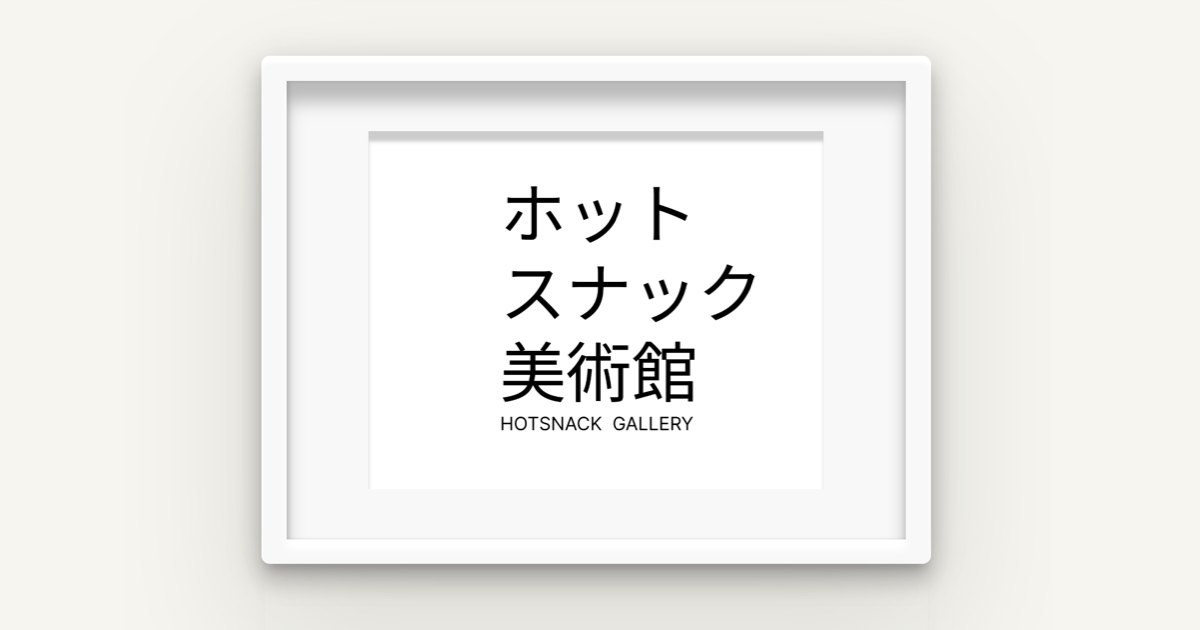
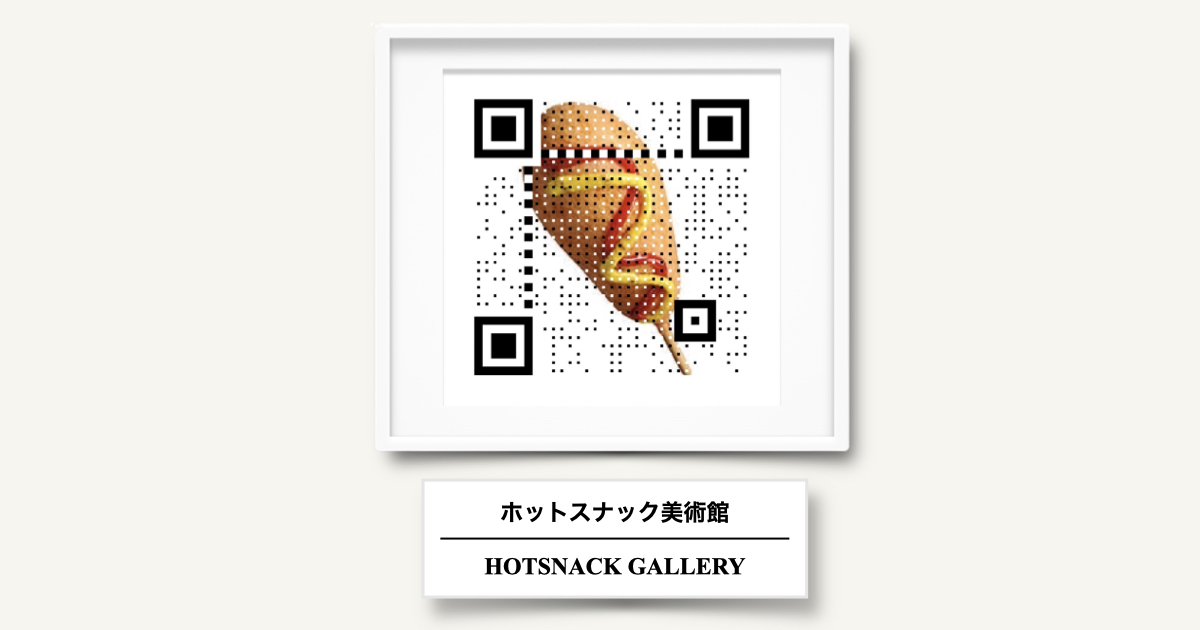
fix:ogpの再設定

Changed region(s): [[0.185, 0.0603, 0.8017, 0.9952]]

diff --git a/app/javascript/pages/Top.vue b/app/javascript/pages/Top.vue
@@ -86,7 +86,7 @@
                 </v-btn>
             </v-card-title>
             <v-card color="transparent" outlined>
-                <v-col class="s-font" align="left">コンビニでホットスナックを選んでいる時に、、、</v-col>
+                <v-col class="s-font pt-0" align="left">コンビニでホットスナックを選んでいる時に、、、</v-col>
                 <v-col class="p-font" align="center">
                     店員の視線が気になる人。
                     <br />

diff --git a/app/models/area.rb b/app/models/area.rb
@@ -3,17 +3,16 @@
 # Table name: areas
 #
 #  id         :integer          not null, primary key
+#  all        :boolean          default(TRUE), not null
+#  chubu      :boolean          default(FALSE), not null
 #  chugoku    :boolean          default(FALSE), not null
 #  hokkaido   :boolean          default(FALSE), not null
-#  hokuriku   :boolean          default(FALSE), not null
 #  kanto      :boolean          default(FALSE), not null
 #  kinki      :boolean          default(FALSE), not null
-#  koshinetsu :boolean          default(FALSE), not null
 #  kyushu     :boolean          default(FALSE), not null
 #  okinawa    :boolean          default(FALSE), not null
 #  shikoku    :boolean          default(FALSE), not null
 #  tohoku     :boolean          default(FALSE), not null
-#  tokai      :boolean          default(FALSE), not null
 #  created_at :datetime         not null
 #  updated_at :datetime         not null
 #

diff --git a/db/schema.rb b/db/schema.rb
@@ -13,12 +13,11 @@
 ActiveRecord::Schema.define(version: 2022_07_28_061247) do
 
   create_table "areas", force: :cascade do |t|
+    t.boolean "all", default: true, null: false
     t.boolean "hokkaido", default: false, null: false
     t.boolean "tohoku", default: false, null: false
     t.boolean "kanto", default: false, null: false
-    t.boolean "koshinetsu", default: false, null: false
-    t.boolean "hokuriku", default: false, null: false
-    t.boolean "tokai", default: false, null: false
+    t.boolean "chubu", default: false, null: false
     t.boolean "kinki", default: false, null: false
     t.boolean "chugoku", default: false, null: false
     t.boolean "shikoku", default: false, null: false

diff --git a/db/migrate/20220728060028_create_areas.rb b/db/migrate/20220728060028_create_areas.rb
@@ -1,12 +1,11 @@
 class CreateAreas < ActiveRecord::Migration[6.1]
   def change
     create_table :areas do |t|
+      t.boolean :all, null: false, default: true
       t.boolean :hokkaido, null: false, default: false
       t.boolean :tohoku, null: false, default: false
       t.boolean :kanto, null: false, default: false
-      t.boolean :koshinetsu, null: false, default: false
-      t.boolean :hokuriku, null: false, default: false
-      t.boolean :tokai, null: false, default: false
+      t.boolean :chubu, null: false, default: false
       t.boolean :kinki, null: false, default: false
       t.boolean :chugoku, null: false, default: false
       t.boolean :shikoku, null: false, default: false
